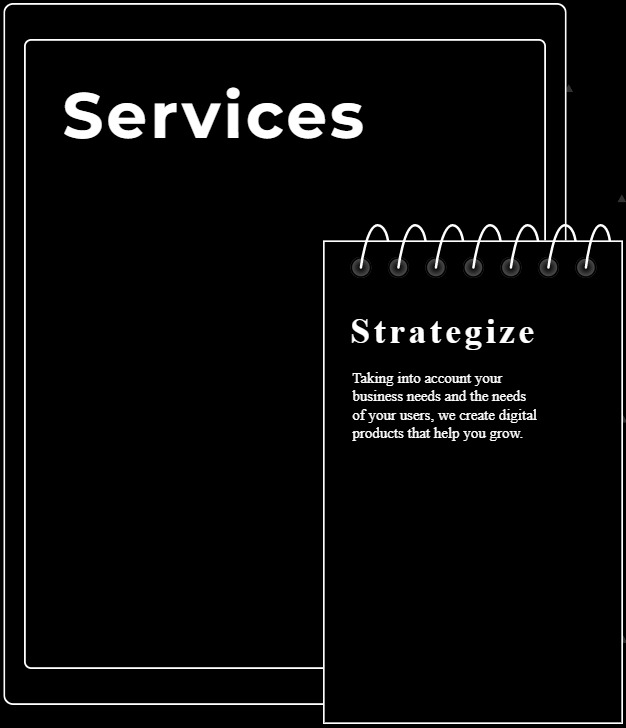
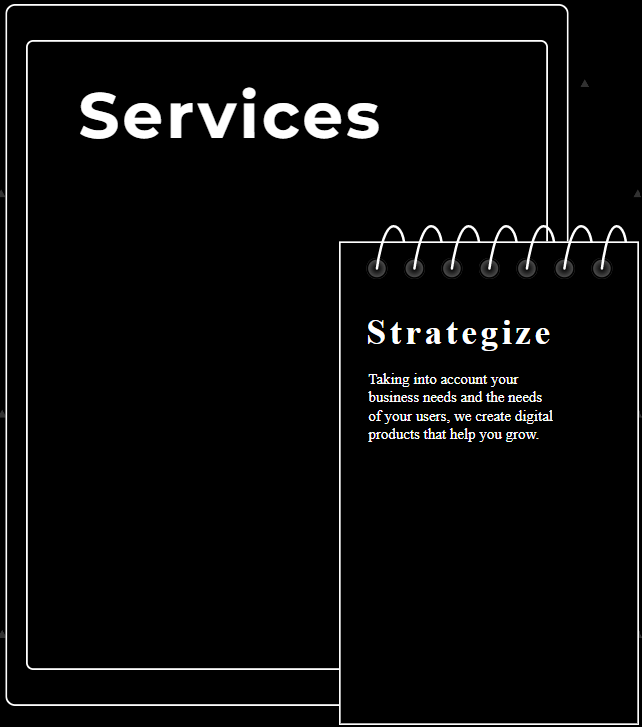
..

Changed region(s): [[0.0, 0.0, 1.0, 0.9986], [0.0911, 0.121, 0.607, 0.2118]]

diff --git a/src/styles/main.css b/src/styles/main.css
@@ -395,17 +395,17 @@ section.active  .mobileImg_prev_medium{
   0%,
   20% {
     transform: scale(1);
-    width: 627px;
-    left: 266px;
-    top: 36px;
+    width: 642px;
+    left: 250px;
+    top: 35px;
   }
 
   75%,
   100% {
     transform: scale(0.5);
-    width: 34%;
-    left: 391px;
-    top: -46px;
+    width: 32%;
+    left: 400px;
+    top: -32px;
   }
 }
 @keyframes tabletimg_prev_medium {
@@ -524,9 +524,9 @@ section.active  .mobileImg_prev_medium{
   0%,
   20% {
     transform: scale(1);
-    width: 363px;
-    left: 442px;
-    top: 33px;
+    width: 366px;
+    left: 438px;
+    top: 32px;
   }
 
   75%,
@@ -544,8 +544,8 @@ section.active  .mobileImg_prev_medium{
   20% {
     transform: scale(1);
     width: 277px;
-    left: 434px;
-    top: 31px;
+    left: 433px;
+    top: 30px;
 
   }
 
@@ -1761,7 +1761,7 @@ section.active {
   }
 }
 
-@media screen and (min-width: 1500px) {
+@media screen and (min-width: 1500px) and (max-width: 1799px)  {
   .tabletimg {
     margin-top: -8%;
   }
